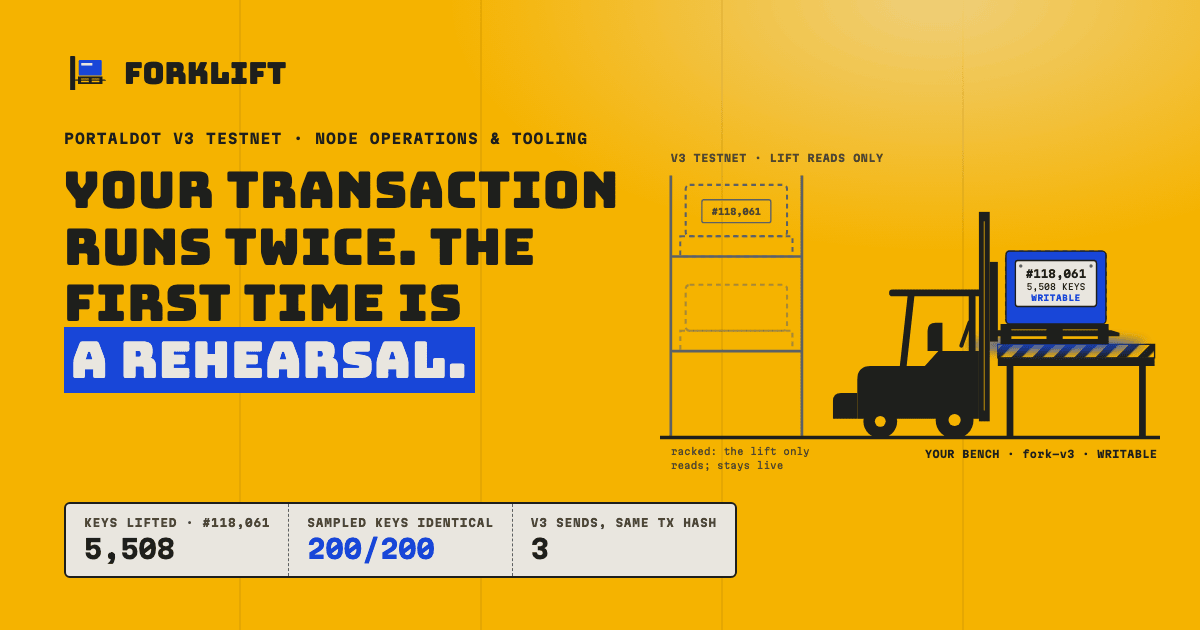
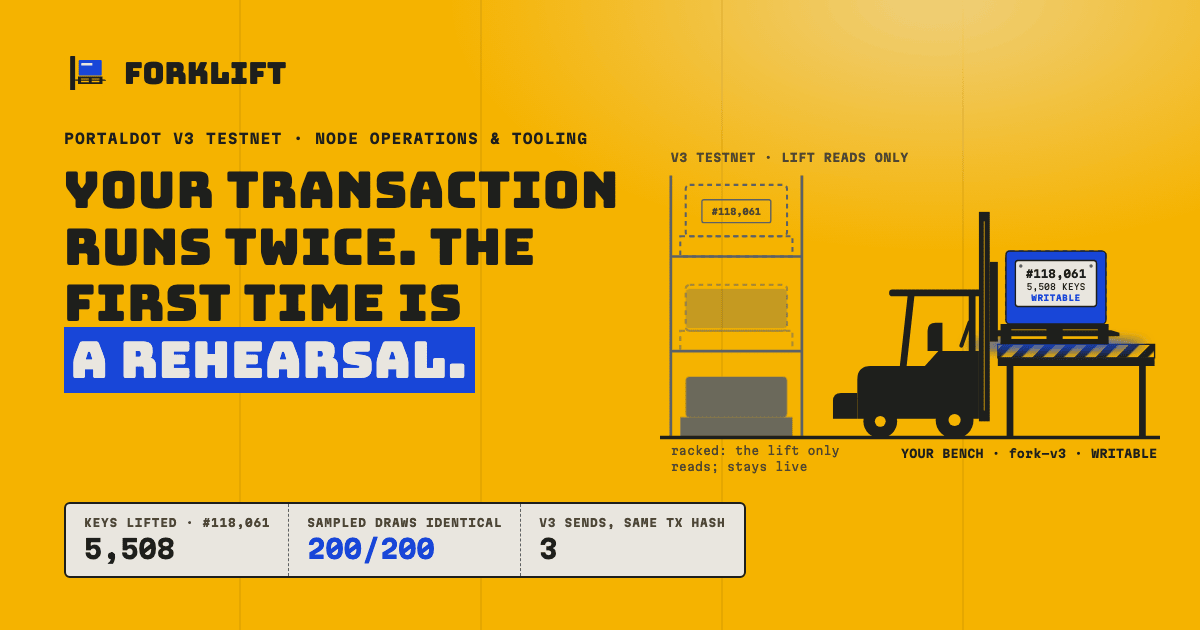
pages: goods-in bay landing + deck from main 1d1cc1a

diff --git a/index.html b/index.html
@@ -81,7 +81,7 @@ nav.top ul a.gh { background: var(--ink); color: var(--bg); padding: 9px 14px; b
 nav.top ul a.gh:hover { transform: translate(-2px, -2px); box-shadow: 3px 3px 0 var(--after); }
 
 /* ------- hero ------- */
-.hero { display: grid; grid-template-columns: minmax(0, .98fr) minmax(0, 1.02fr); gap: 32px; align-items: center; padding: 76px 0 64px; }
+.hero { display: grid; grid-template-columns: minmax(0, .98fr) minmax(0, 1.02fr); gap: 32px; align-items: center; padding: 64px 0 34px; }
 .label { font: 700 12px/1.3 var(--font-data); letter-spacing: .06em; text-transform: uppercase; display: inline-flex; gap: 10px; align-items: center; }
 .label i { flex: none; width: 26px; height: 12px; background: repeating-linear-gradient(-45deg, var(--hazard) 0 5px, transparent 5px 10px); }
 h1, h2, .display { font-family: var(--font-display); font-weight: 400; text-transform: uppercase; letter-spacing: .02em; }
@@ -184,7 +184,7 @@ section.board ::selection { background: var(--bg); color: var(--ink); }
 .drow.hd { font: 700 11px/1.2 var(--font-data); letter-spacing: .08em; text-transform: uppercase; color: color-mix(in srgb, var(--plate) 70%, var(--ink)); padding: 6px 2px 2px; }
 .drow .f { display: flex; align-items: center; font: 700 12px/1.25 var(--font-data); text-transform: uppercase; letter-spacing: .05em; color: color-mix(in srgb, var(--plate) 76%, var(--ink)); padding: 0 6px; }
 .flap { position: relative; isolation: isolate; display: flex; flex-wrap: wrap; align-items: center; min-height: 52px; padding: 8px 12px; border-radius: 4px; font: 700 15px/1.2 var(--font-data); font-variant-numeric: tabular-nums;
-  background: linear-gradient(180deg, color-mix(in srgb, var(--ink) 70%, var(--plate)) 0 50%, color-mix(in srgb, var(--ink) 78%, var(--plate)) 50% 100%); color: var(--plate); overflow-wrap: anywhere; }
+  background: linear-gradient(180deg, color-mix(in srgb, var(--ink) 80%, var(--plate)) 0 50%, color-mix(in srgb, var(--ink) 86%, var(--plate)) 50% 100%); color: var(--plate); overflow-wrap: anywhere; }
 .flap.ok { color: var(--plate); }
 .flap.moved { background: var(--bg); color: var(--ink); font-size: 19px; }
 .flap.stamp { animation: stamp .5s cubic-bezier(.2, 1.6, .4, 1) both; }
@@ -357,7 +357,7 @@ footer .brand { color: var(--bg); font-size: 18px; }
    <div>
     <span class="label"><i></i>Portaldot Hacker House 2026 · Node Operations &amp; Tooling</span>
     <h1><span class="ln">Your transaction</span><span class="ln">runs twice. The</span><span class="ln">first time is</span><span class="ln"><mark>a rehearsal.</mark></span></h1>
-    <p class="sub">Forklift lifts the live Portaldot V3 testnet at one pinned block onto your machine, checks the fork against the chain (<b>200/200 identical</b>), and runs your signed bytes there first. Then it sends the same bytes to V3 and shows you every field that moved.</p>
+    <p class="sub">Forklift forks the live Portaldot V3 testnet at one pinned block on your machine, checks the fork against the chain (<b>200/200 sampled draws identical</b>), and runs your signed bytes there first. Then it sends the same bytes to V3 and shows you every field that moved.</p>
     <div class="cta">
      <a class="btn pri" href="https://github.com/edycutjong/portaldot-hackathon-2026-forklift-edycu"><svg viewBox="0 0 16 16" aria-hidden="true"><path fill="currentColor" d="M8 0C3.58 0 0 3.58 0 8c0 3.54 2.29 6.53 5.47 7.59.4.07.55-.17.55-.38 0-.19-.01-.82-.01-1.49-2.01.37-2.53-.49-2.69-.94-.09-.23-.48-.94-.82-1.13-.28-.15-.68-.52-.01-.53.63-.01 1.08.58 1.23.82.72 1.21 1.87.87 2.33.66.07-.52.28-.87.51-1.07-1.78-.2-3.64-.89-3.64-3.95 0-.87.31-1.59.82-2.15-.08-.2-.36-1.02.08-2.12 0 0 .67-.21 2.2.82.64-.18 1.32-.27 2-.27.68 0 1.36.09 2 .27 1.53-1.04 2.2-.82 2.2-.82.44 1.1.16 1.92.08 2.12.51.56.82 1.27.82 2.15 0 3.07-1.87 3.75-3.65 3.95.29.25.54.73.54 1.48 0 1.07-.01 1.93-.01 2.2 0 .21.15.46.55.38A8.01 8.01 0 0 0 16 8c0-4.42-3.58-8-8-8Z"/></svg>View on GitHub</a>
      <a class="btn" href="https://github.com/edycutjong/portaldot-hackathon-2026-forklift-edycu/blob/main/docs/pitch-deck.pdf">Pitch deck</a>
@@ -381,6 +381,7 @@ footer .brand { color: var(--bg); font-size: 18px; }
        <rect x="38" y="244" width="150" height="68" rx="6" opacity=".55"/><path d="M30 312H196V342H30Z" opacity=".55"/>
       </g>
      </g>
+     <g fill="#5C6166" opacity=".9"><rect x="38" y="380" width="150" height="60" rx="6"/><path d="M30 440H196V470H30Z"/><rect x="38" y="250" width="150" height="58" rx="6" opacity=".35"/></g>
      <rect x="62" y="118" width="102" height="34" rx="3" fill="none" stroke="#5C6166" stroke-width="2"/>
      <text x="113" y="140" text-anchor="middle" font-family="Martian Mono, monospace" font-size="13" font-weight="700" fill="#4E4636">#118,061</text>
      <!-- bench: your fork; chevrons mark where writable begins -->
@@ -425,10 +426,10 @@ footer .brand { color: var(--bg); font-size: 18px; }
    </div>
   </section>
 
-  <section class="plateband" id="plate" aria-label="Data plate: measured on the Portaldot V3 testnet, 2026-10-20">
-   <p class="plate-title">Data plate · Portaldot V3 testnet · run 2026-10-20</p>
+  <section class="plateband" id="plate" aria-label="Data plate: measured on the Portaldot V3 testnet, blocks #118,061 to #118,669">
+   <p class="plate-title">Data plate · Portaldot V3 testnet · blocks #118,061 to #118,669</p>
    <div class="cell"><small>Keys lifted · block #118,061</small><strong data-count="5508" data-fmt="comma">5,508</strong><p>Two lifts of the same block, the same <code>manifest_root</code>.</p></div>
-   <div class="cell"><small>Sampled keys identical, fork vs chain</small><strong class="lit" data-count="200" data-suffix="/200">200/200</strong><p><code>verify --sample 200</code> exits 0.</p></div>
+   <div class="cell"><small>Sampled draws identical, fork vs chain</small><strong class="lit" data-count="200" data-suffix="/200">200/200</strong><p><code>verify --sample 200</code> exits 0; 198 distinct keys.</p></div>
    <div class="cell"><small>V3 transactions rehearsed, then sent</small><strong data-count="3">3</strong><p>Same tx hash on the fork and on V3, each time.</p></div>
    <div class="cell"><small>Replay fields equal · 118669-1</small><strong class="lit" data-count="16" data-suffix="/16">16/16</strong><p>Re-run on its parent block, fee to the planck. The other two: 10/10, 14/14.</p></div>
   </section>
@@ -519,8 +520,8 @@ footer .brand { color: var(--bg); font-size: 18px; }
   <div class="wrap">
    <div class="head">
     <span class="label"><i></i>Bay 2 · The machine</span>
-    <h2 id="machine-h">Five steps. One pinned block.</h2>
-    <p>Four are commands (<code>lift</code>, <code>verify</code>, <code>rehearse</code>, <code>replay</code>); Fork is what <code>forklift up</code> starts. Lift and verify read the live chain at a pinned block hash; only <code>rehearse --send</code> writes, and only to V3.</p>
+    <h2 id="machine-h">The V3 path, in five moves.</h2>
+    <p>Lift, verify, rehearse and replay are commands; Fork is what <code>forklift up</code> starts. Lift and verify read the live chain at a pinned block hash; only <code>rehearse --send</code> writes, and only to V3.</p>
    </div>
    <div class="bento">
     <article class="card w4">
@@ -618,11 +619,11 @@ footer .brand { color: var(--bg); font-size: 18px; }
     </details>
     <details>
      <summary>Is every key checked?</summary>
-     <div class="a"><p>No. <code>verify</code> samples 200 keys on the live chain, then compares the fork's whole key set with the lift (5,508 = 5,508) and every lifted value: 5,497 identical. The other 11 are child-trie roots, which the fork reads as null; <code>verify</code> counts and lists them. Child tries are not lifted.</p></div>
+     <div class="a"><p>No. <code>verify</code> makes 200 draws (198 distinct keys) on the live chain, then compares the fork's whole key set with the lift (5,508 = 5,508) and every lifted value: 5,497 identical. The other 11 are child-trie roots, which the fork reads as null; <code>verify</code> counts and lists them. Child tries are not lifted.</p></div>
     </details>
     <details>
      <summary>What is mocked?</summary>
-     <div class="a"><p>No data is mocked on the V3 path: the lift and the sent transactions are real reads and writes on the live V3 testnet, and the fork runs V3's own runtime wasm. The fork is Chopsticks, not a V3 node: it stubs unresolved host imports (<code>allow-unresolved-imports</code>) and can set the fee multiplier from the chain (both recorded). There is no hosted fork and no web app: Forklift is a CLI, and the fork runs on your machine.</p></div>
+     <div class="a"><p>No data is mocked on the V3 path: the lift and the sent transactions are real reads and writes on the live V3 testnet, and the fork runs V3's own runtime wasm. The fork is Chopsticks, not a V3 node: it reads untouched state from V3 at the pinned block on demand, stubs unresolved host imports (<code>allow-unresolved-imports</code>), runs with Chopsticks' <code>--mock-signature-host</code> (Forklift's own signatures are real: V3 accepted the same bytes), and can set the fee multiplier from the chain (all recorded in <code>evidence/fork-v3-*.json</code> and <code>rehearse-v3.json</code>). There is no hosted fork and no web app: Forklift is a CLI, and the fork runs on your machine.</p></div>
     </details>
     <details>
      <summary>How do I try it?</summary>

diff --git a/deck/index.html b/deck/index.html
@@ -123,11 +123,11 @@ p code, li code, td code, .what code { font-size: .84em; }
 
 /* 3 · what it does */
 .s3 .steps { position: absolute; left: 120px; top: 296px; width: 1680px; display: grid; grid-template-columns: repeat(5, 1fr); gap: 20px; }
-.s3 .step { padding: 30px 26px 26px; height: 500px; display: flex; flex-direction: column; }
+.s3 .step { padding: 30px 26px 26px; height: 520px; display: flex; flex-direction: column; }
 .s3 .n { font: 700 17px/1 var(--font-body); text-transform: uppercase; letter-spacing: .14em; color: var(--muted); }
 .s3 .verb { font: 400 40px/1 var(--font-display); text-transform: uppercase; margin: 12px 0 16px; }
 .s3 .cmd { font: 700 16px/1.45 var(--font-data); background: var(--ink); color: var(--plate); padding: 10px 12px; border-radius: 4px; white-space: nowrap; }
-.s3 .what { font: 400 22px/1.38 var(--font-body); margin-top: 16px; }
+.s3 .what { font: 400 23px/1.4 var(--font-body); margin-top: 16px; }
 .s3 .out.ink { color: var(--ink); }
 .s3 .out { margin-top: auto; padding-top: 14px; border-top: 2px solid #C9C4B8; font: 700 19px/1.45 var(--font-data); color: var(--after); }
 .s3 .ctrl { position: absolute; left: 120px; top: 842px; width: 1680px; padding: 20px 28px; display: flex; gap: 22px; align-items: center; }
@@ -189,8 +189,8 @@ p code, li code, td code, .what code { font-size: .84em; }
 .s8 .cols { position: absolute; left: 120px; top: 296px; width: 1680px; display: grid; grid-template-columns: 1fr 1.12fr 1fr; gap: 30px; }
 .s8 .c { padding: 32px 32px 28px; }
 .s8 h3 { font: 400 28px/1.12 var(--font-display); text-transform: uppercase; margin: 12px 0 18px; }
-.s8 p, .s8 li { font: 400 24px/1.42 var(--font-body); }
-.s8 .c { min-height: 560px; }
+.s8 p, .s8 li { font: 400 25px/1.45 var(--font-body); }
+.s8 .c { min-height: 600px; }
 .s8 ul { list-style: none; }
 .s8 li { padding: 9px 0 9px 26px; position: relative; border-top: 2px solid #C9C4B8; }
 .s8 li::before { content: ""; position: absolute; left: 0; top: 22px; width: 14px; height: 4px; background: var(--ink); }
@@ -275,7 +275,7 @@ body.presenter .slide.active .speaker-notes { display: block; position: absolute
   <h1><span>Your transaction</span><span>runs twice. The</span><span>first time is</span><span><mark>a rehearsal.</mark></span></h1>
   <div class="dps">
     <div><span class="lab">Keys lifted · #118,061</span><span class="val">5,508</span></div>
-    <div><span class="lab">Sampled keys identical</span><span class="val on">200/200</span></div>
+    <div><span class="lab">Sampled draws identical</span><span class="val on">200/200</span></div>
     <div><span class="lab">V3 sends, same tx hash</span><span class="val">3</span></div>
   </div>
   <div class="ver">v0.1.0 · MIT · Python 3.11+ · AI-assisted, see slide 10</div>
@@ -341,7 +341,7 @@ compare  8/14 fields match · DIFFERS: …,
          inclusion_height, fee, …
 <span class="p">$ </span>forklift replay 118621-1
 compare  <span class="hl">14/14 fields match</span></div>
-  <aside class="speaker-notes">Your transaction runs twice; the first time is a rehearsal. Forklift lifts the Portaldot V3 testnet at one block, 118,061, onto your machine, checks the fork against the live chain, 200 of 200 sampled keys identical, then runs your signed bytes on the fork before the same bytes go to V3. Three real V3 transactions were sent this way, each with the same tx hash as predicted.</aside>
+  <aside class="speaker-notes">Your transaction runs twice; the first time is a rehearsal. Forklift forks the Portaldot V3 testnet at one block, 118,061, on your machine, checks the fork against the live chain, 200 of 200 sampled draws identical, then runs your signed bytes on the fork before the same bytes go to V3. Three real V3 transactions were sent this way, each with the same tx hash as predicted.</aside>
 </section>
 
 <!-- 2 · PROBLEM -->
@@ -619,7 +619,7 @@ compare  <span class="hl">14/14 fields match</span></div>
   <div class="cols">
     <div class="c plate">
       <span class="lab">Uses</span>
-      <h3>The node, not a mock</h3>
+      <h3>Real chain data, not a mock</h3>
       <ul>
         <li>The historical-state RPC at a block hash: <code>state_getKeysPaged</code>, <code>state_queryStorageAt</code>.</li>
         <li>The <code>portaldot_dev</code> 2.0.0 node (community tarball), booted with zero peers.</li>
